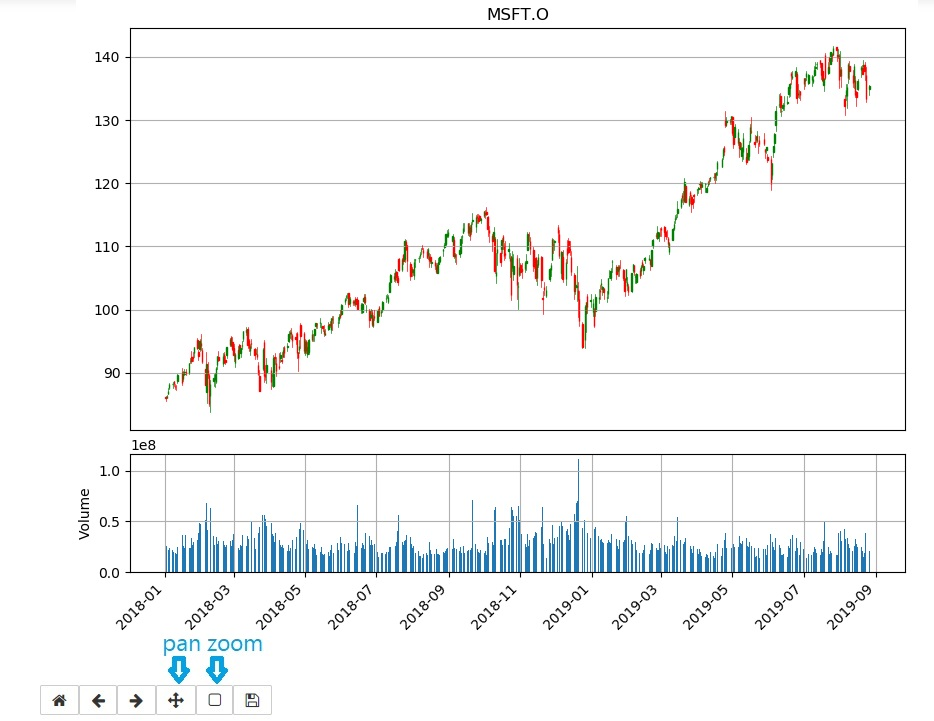
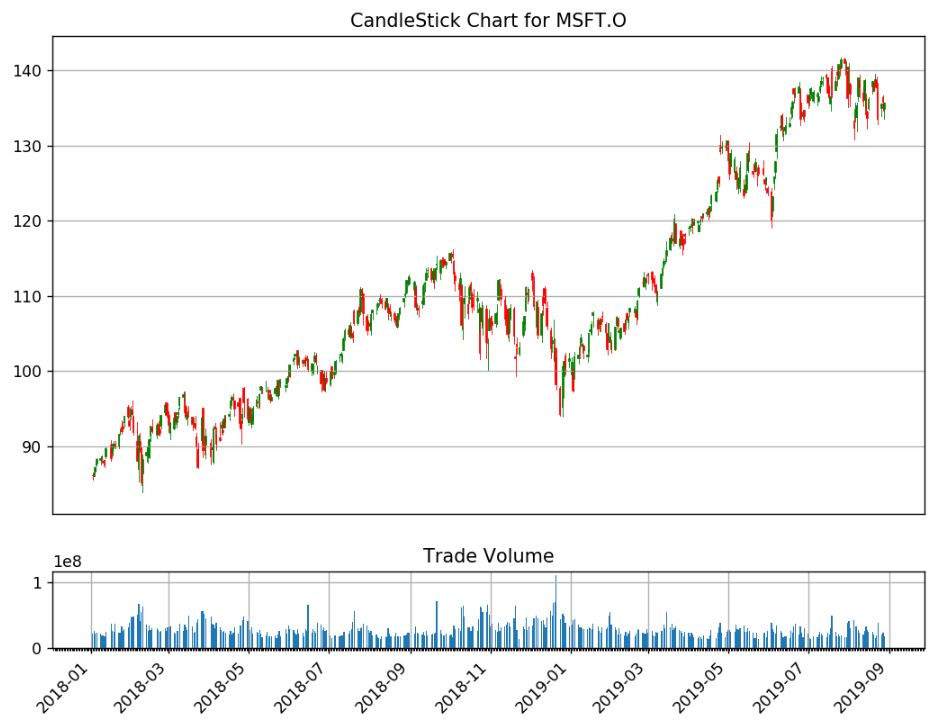
Add images, update code to generate graphs

diff --git a/README.md b/README.md
@@ -350,23 +350,29 @@ import matplotlib.pyplot as plt
 
 dfPlot=df[['Last','Volume']].loc['2018-01-01':datetime.now(),:]
 
+#top graph for daily close price and bottom one is bar graph for stock volumen.
+#Set figure size
 fig = plt.figure(figsize=(9,8),dpi=100)
-top = plt.subplot2grid((4,4), (0, 0), rowspan=3, colspan=4)
-top.grid(True)
 
+# Set subplot size to 4 row x4 col top graph start from 0,0 to row 3 and last low is for volume
+top = plt.subplot2grid((4,4), (0, 0), rowspan=3, colspan=4)
+top.plot(dfPlot.index, dfPlot['Last'], label='Last price')
+top.grid(True)
+titletxt='Last price for '+ricname
+top.set_title(titletxt)
+top.axes.get_xaxis().set_visible(False)
+#set legend to upper left(2)
+plt.legend(loc=2)
+
+
+#bottom graph(volume) start from row 3, col 0 cover size for 1 last row with 4 column.
 #set sharex to top so we can zoom or pan both graph
 bottom = plt.subplot2grid((4,4), (3,0), rowspan=1, colspan=4,sharex=top)
 bottom.grid(True)
-
-#top graph for daily close price and bottom one is bar graph for stock volumen.
-top.plot(dfPlot.index, dfPlot['Last']) 
 bottom.bar(dfPlot.index, dfPlot['Volume']) 
- 
-# set the labels
-top.axes.get_xaxis().set_visible(False)
-top.set_title(ricname)
-top.set_ylabel('Last Price')
-bottom.set_ylabel('Volume')
+plt.title('Trade Volume')
+
+plt.subplots_adjust(hspace=0.75)
 ```
 It generate bar graph for dialy volume under line graph as below sample graph.
 ![linegraphwithvolume](./images/linegraphwithvolume1.JPG)
@@ -396,39 +402,34 @@ Below is histogram generate by distplot function.
 
 Next step we will generate a CandleStick using method candlestick_ohlc from mpl_finance library. Please note that from details in this [link](https://matplotlib.org/api/finance_api.html), module matplotlib.finance is deprecated in 2.0 and has been moved to a module called mpl_finance. It's still working when we have matplotlib version 2.1.2 but this may stop working in any future releases, however, you still be able to use mpl_finance module to use this feature. Note that mpl_finance is no longer maintained.  
 
-To generate the graph we need to pass a dataframe column which contain Open, High, Low and Last/Close price to the method. And there are some additional steps to configuring a tick locating and formatting before plotting the graph. Hence we will add these steps to a new function instead so it can do formatting and generating a graph and then we can re-use this function to plot a moving average later.
+To generate the graph we need to pass a dataframe column which contain Open, High, Low and Close price to the method. And there are some additional steps to configuring a tick locating and formatting before plotting the graph. Hence we will add these steps to a new function instead so it can do formatting and generating a graph and then we can re-use this function to plot a moving average later. Note that below function created based on the [example codes](https://matplotlib.org/examples/pylab_examples/finance_demo.html) provided on [Matplotlib page](https://matplotlib.org).
 
 ```python
 import numpy as np
 from matplotlib.dates import DateFormatter, WeekdayLocator,DayLocator, MONDAY
 import matplotlib.dates as dates
 from mpl_finance import candlestick_ohlc
-
+ 
 def pandas_candlestick_ohlc(dat, otherseries = None,item_name=None):
     
-    mondays = WeekdayLocator(MONDAY)    
-    alldays = DayLocator()        
-    dayFormatter = DateFormatter('%d') 
+    mondays = WeekdayLocator(MONDAY)    # major ticks on the mondays
+    alldays = DayLocator()              # minor ticks on the days
+    weekFormatter = DateFormatter('%b %d')  # e.g., Jan 12
+    dayFormatter = DateFormatter('%d')      # e.g., 12
     
     plotdat = dat.loc[:,["Open", "High", "Low", "Last"]]
     stick=1
-
-    fig = plt.figure(figsize=(10,8),dpi=100)
-    top=plt.subplot2grid((4,4), (0, 0), rowspan=3, colspan=4)
-    bottom = plt.subplot2grid((4,4), (3,0), rowspan=1, colspan=4,sharex=top)
-
-    fig.subplots_adjust(bottom=0.2)
     
-    if plotdat.index[-1] - plotdat.index[0] < pd.Timedelta('366 days'):
-        weekFormatter = DateFormatter('%b %d')  # e.g., Jan 12
-        top.xaxis.set_major_locator(mondays)
-        top.xaxis.set_minor_locator(alldays)
-    else:
-        weekFormatter = DateFormatter('%b %d, %Y')
-        
-    top.xaxis.set_major_formatter(weekFormatter)
-    top.set_title(item_name)
-    bottom.grid(True)
+    #Set figure size
+    fig = plt.figure(figsize=(10,8),dpi=100)
+    top=plt.subplot2grid((5,4), (0, 0), rowspan=4, colspan=4)  
+    fig.subplots_adjust(bottom=0.2)
+    top.xaxis.set_major_locator(mondays)
+    top.xaxis.set_minor_locator(alldays)
+    top.xaxis.set_major_formatter(weekFormatter)    
+    titletxt='CandleStick Chart for '+item_name
+    top.set_title(titletxt)
+
     
     # Create the candelstick chart
     candlestick_ohlc(top, list(zip(list(dates.date2num(plotdat.index.tolist())), plotdat["Open"].tolist(), plotdat["High"].tolist(),
@@ -444,16 +445,19 @@ def pandas_candlestick_ohlc(dat, otherseries = None,item_name=None):
     top.xaxis_date()
     top.autoscale_view()
     top.grid(True)
-    top.set_ylabel("Last Price")
-    plt.setp(plt.gca().get_xticklabels(), rotation=45, horizontalalignment='right')
     top.axes.get_xaxis().set_visible(False)
-   
+    
+    bottom = plt.subplot2grid((5,4), (4,0), rowspan=1, colspan=4,sharex=top)
     bottom.bar(dat.index, dat['Volume'])
-    bottom.set_ylabel('Volume')
+    bottom.grid(True)
+    plt.title('Trade Volume')
+    plt.subplots_adjust(hspace=0.75)
+    plt.setp(plt.gca().get_xticklabels(), rotation=45, horizontalalignment='right')
     plt.show()
 ```
 We need to call pandas_candlestick_ohlc function and pass a dataframe from previous step to generate a CandleStick chart.
 Since we add __%mathplotlib notebook__ to the codes, it will show toolbar under the chart so you can zoom and pan the CandleStick chart. And you can also change start and end date in df_adjustOHLC.loc[] to see a graph in specific peroid.
+![toolbar](./images/graphtoolbar.JPG)
 
 ```python
 %matplotlib notebook
@@ -461,11 +465,11 @@ Since we add __%mathplotlib notebook__ to the codes, it will show toolbar under 
 dfPlot=df.loc['2018-01-01':datetime.now(),:]
 pandas_candlestick_ohlc(dfPlot,item_name=ricname)
 ```
-Below is a sample CandleStick Chart with toolbar.
+It will shows the following CandleStick Chart.
 ![candlestick1](./images/candlestickwithvolume1.JPG)
 
-Zoom the graph.
-![candlestickzoom1](./images/candlestickwithvolumezoom1.JPG)
+CandleStick Chart from a shorter peroid.
+![candlestickzoom1](./images/candlestickwithvolume2.JPG)
 
 From a candlestick chart(zoom the graph), a green candlestick indicates a day where the closing price was higher than the open(Gain), while a red candlestick indicates a day where the open was higher than the close (Loss). The wicks indicate the high and the low, and the body the open and close (hue is used to determine which end of the body is open and which the close). You can change the color in pandas_candlestick_ohlc function we have created. And as I said previously, a user can use Candlestick charts for technical analysis and use them to make trading decisions, depending on the shape, color, and position of the candles. We will not cover a technical analysis in this example.
 
@@ -516,4 +520,5 @@ This example provides a step to use Python to retrieve an End of Day Time Series
 * [CandleStick chart what is it?](https://www.investopedia.com/trading/candlestick-charting-what-is-it/)
 * [What Is a Moving Average Article.](https://www.investopedia.com/terms/m/movingaverage.asp)
 * [Seborn Tutorial](https://seaborn.pydata.org/tutorial/distributions.html)
+* [Matplotlib Examples](https://matplotlib.org/examples/pylab_examples/finance_demo.html)
 
